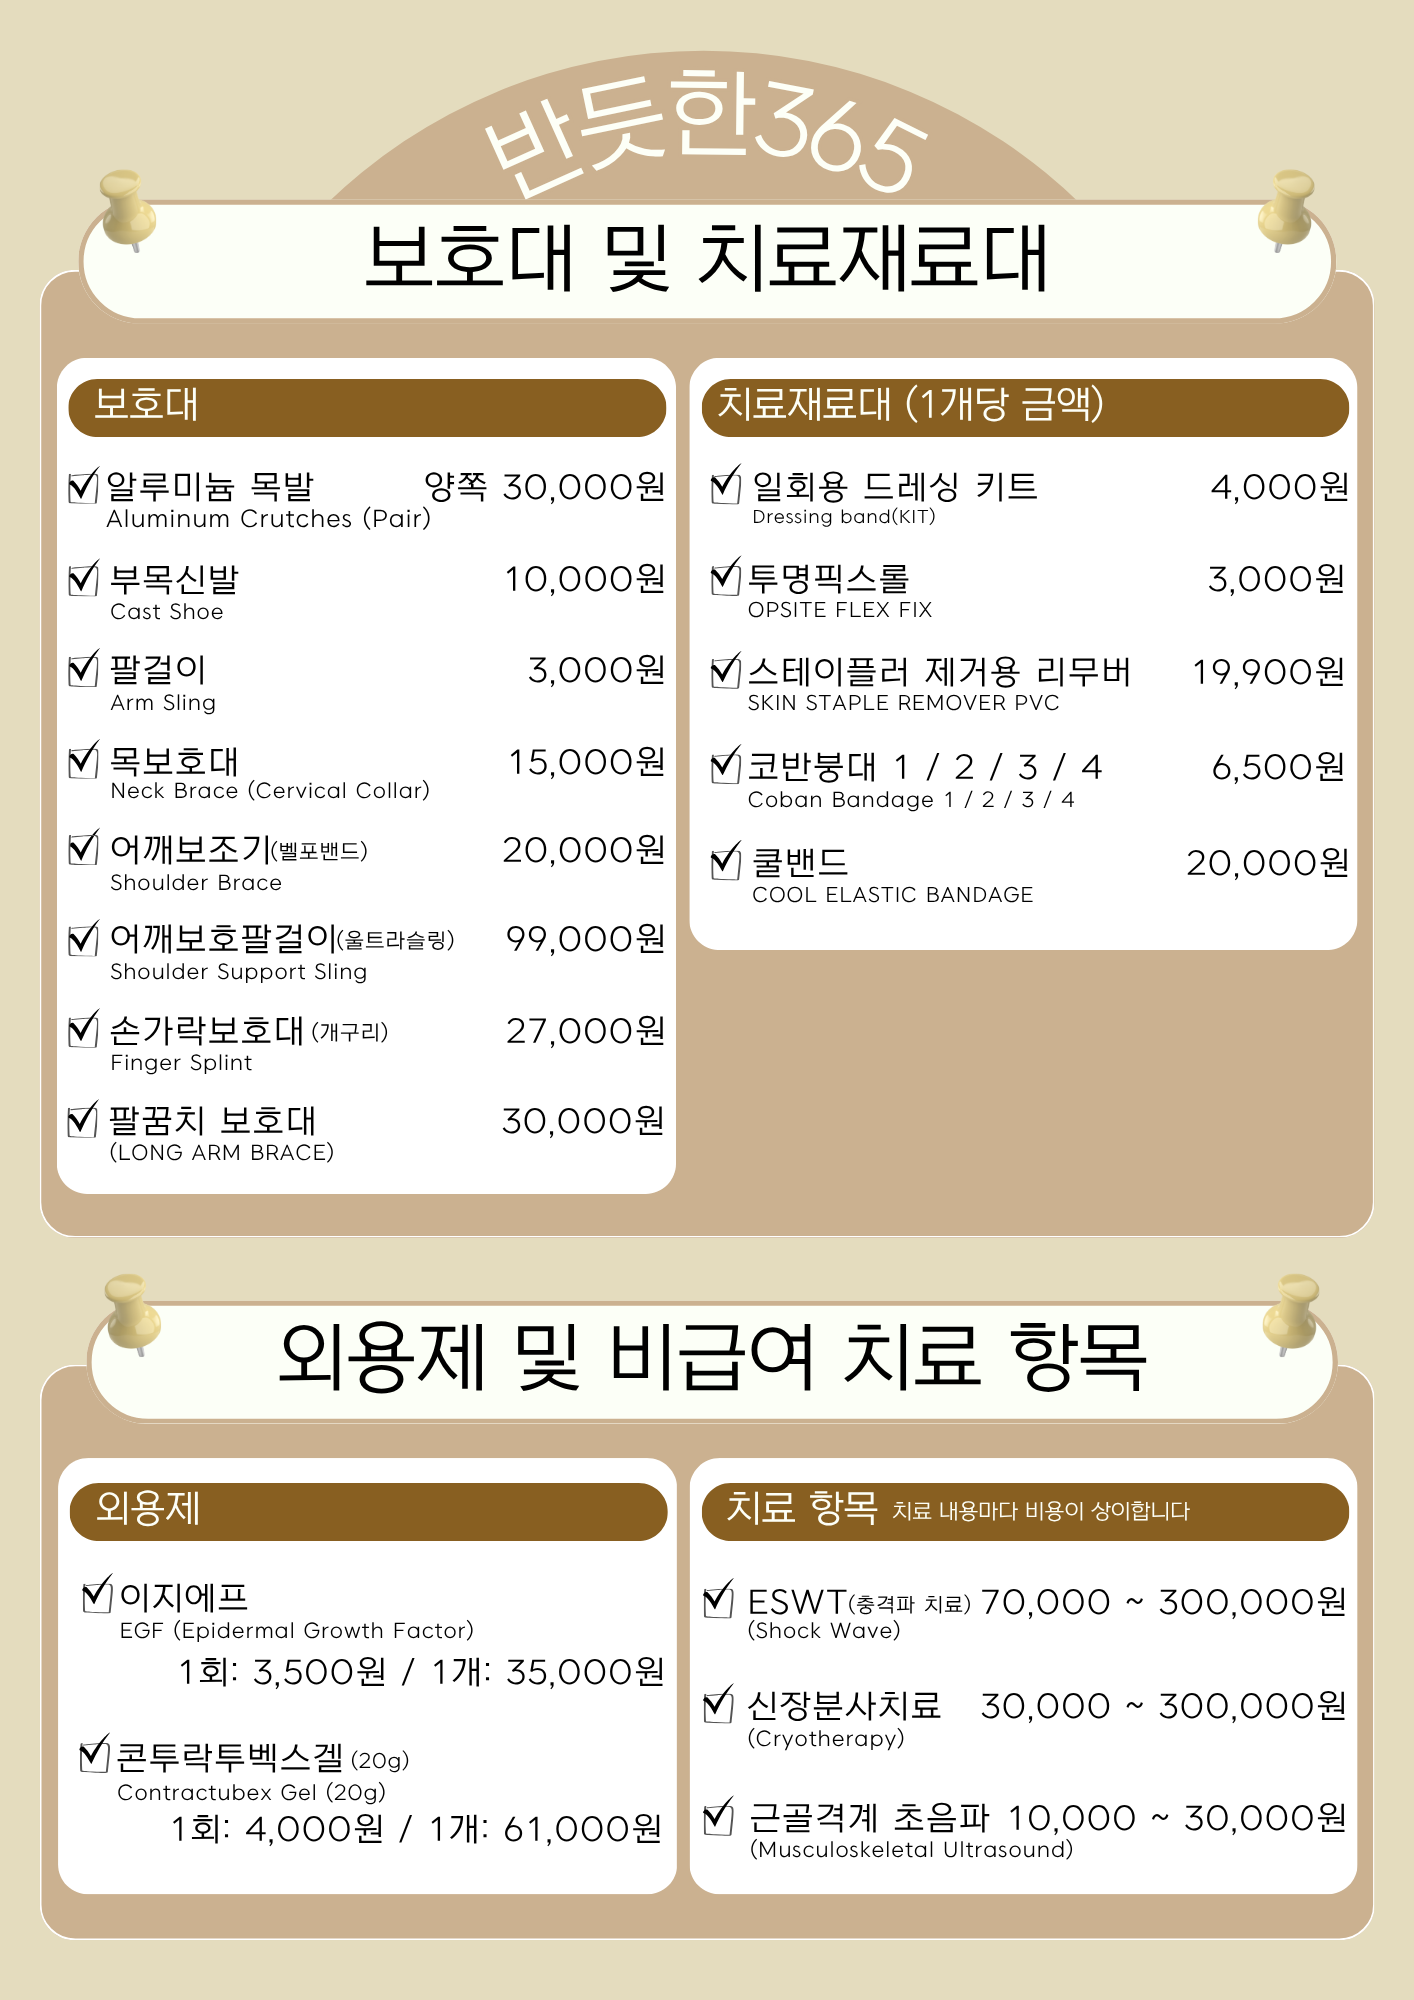
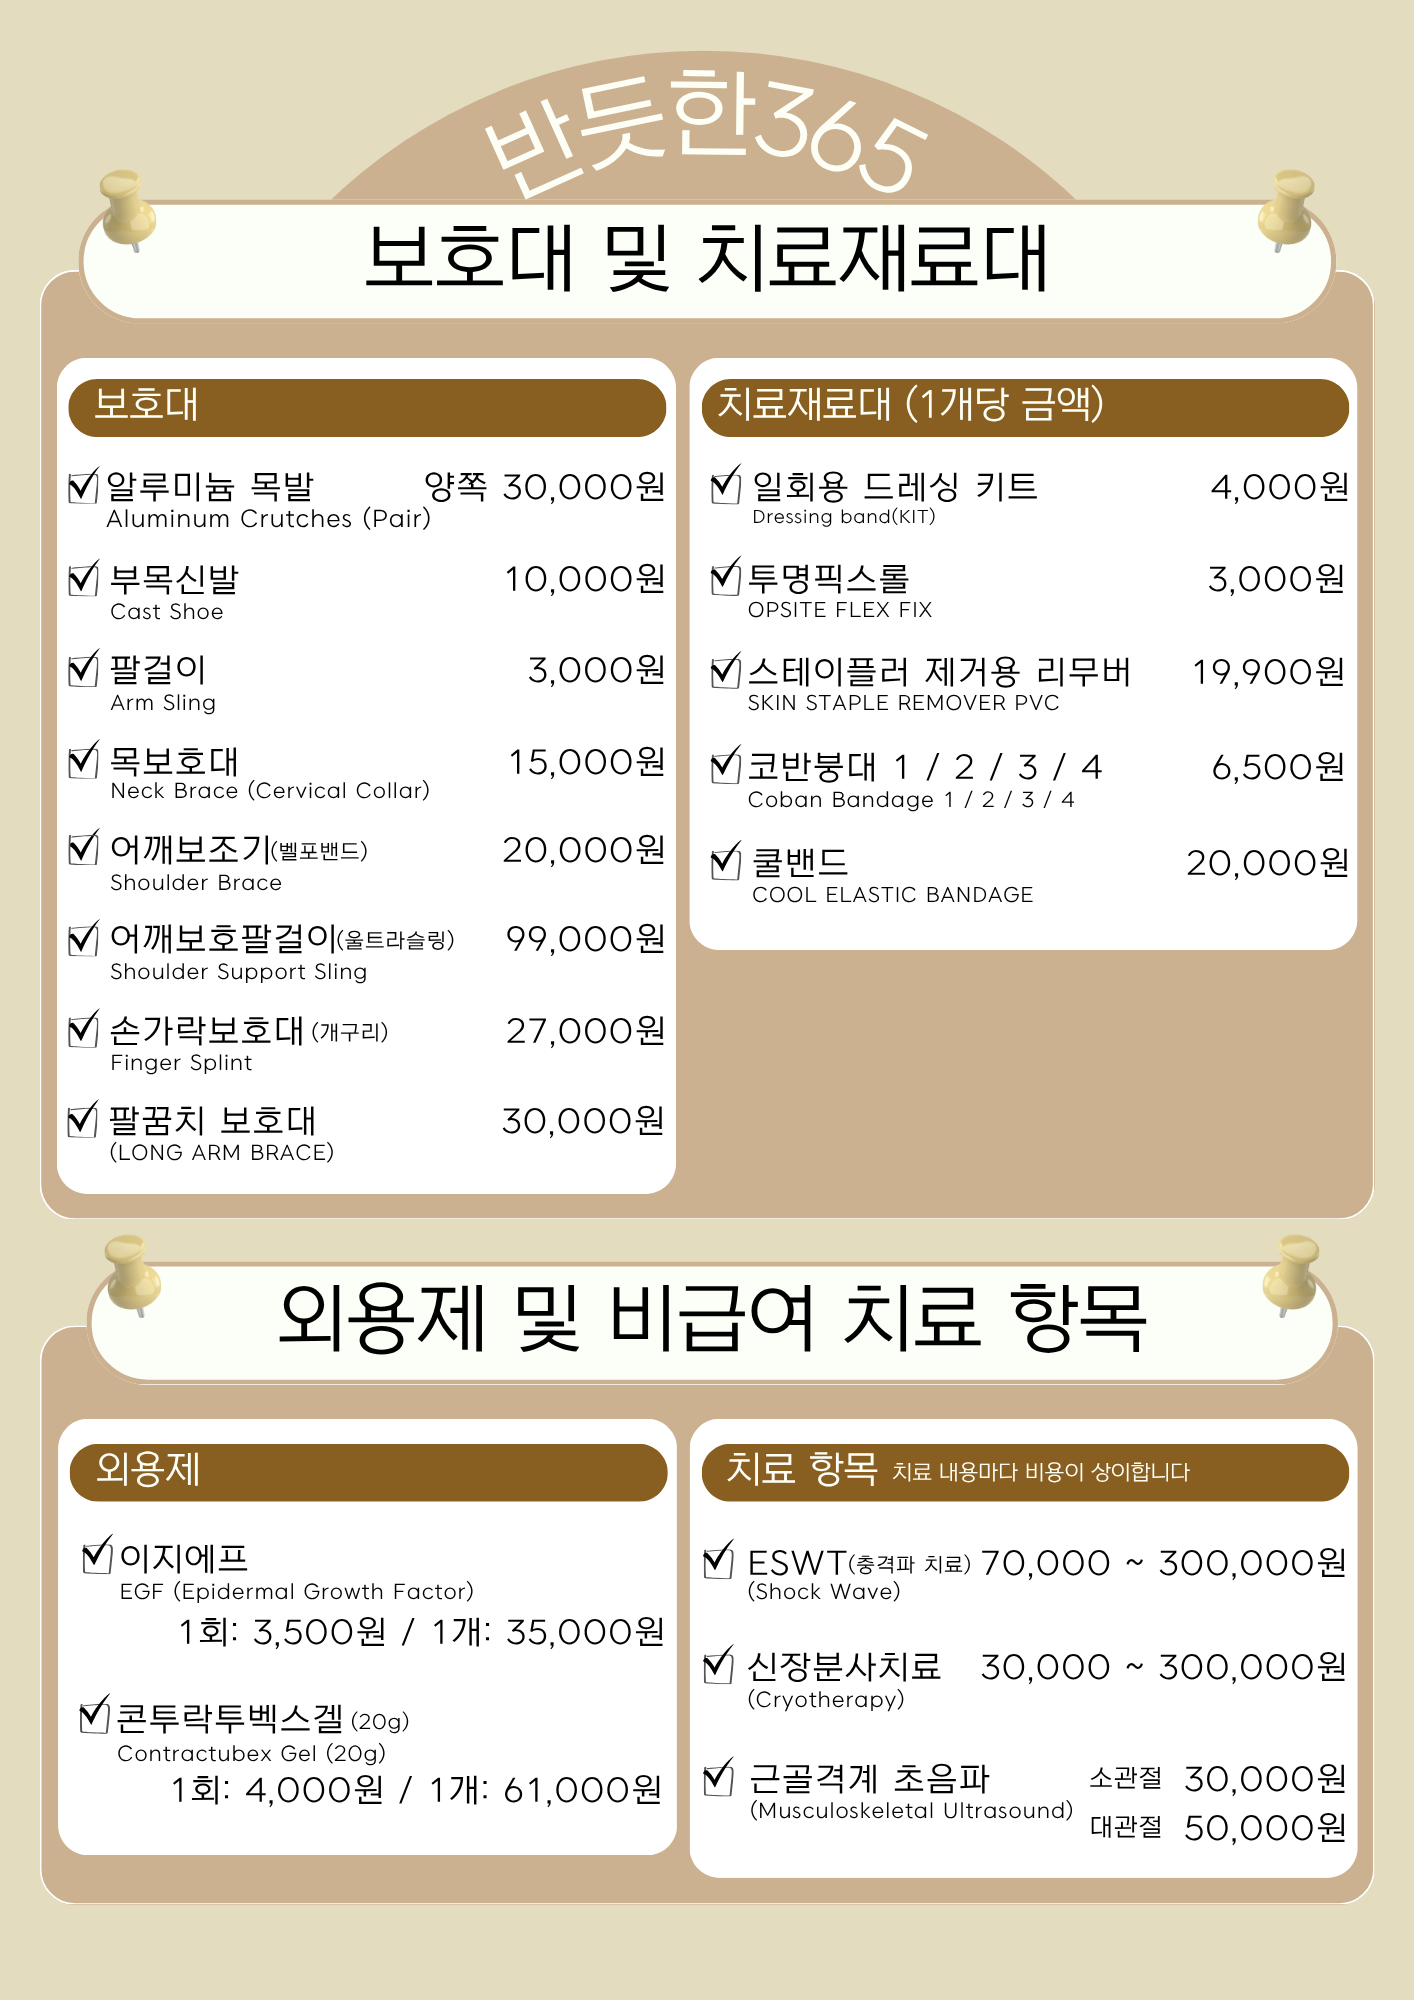
fix: 까치산점 비급여항목안내 (1) 초음파 가격 세분화 (한/영)
근골격계 초음파를 관절 크기별로 나눴다.
  10,000 ~ 30,000원  ->  소관절 30,000원 / 대관절 50,000원
  10,000 ~ 30,000 KRW -> Small joint 30,000 / Large joint 50,000 KRW

같은 장의 나머지 항목과 다른 두 장은 그대로다. 한/영 금액 대조 완료.

BANNER_VER 20260828 -> 20260828b. 같은 파일명을 덮어썼으므로 올리지 않으면
이미 방문한 환자 단말에 옛 가격표가 캐시로 남는다.

Changed region(s): [[0.0311, 0.589, 0.9958, 0.992]]

diff --git a/js/i18n.js b/js/i18n.js
@@ -5,7 +5,7 @@
    ───────────────────────────────────────────── */
 
 /* 배너 캐시 버전: 배너 이미지를 같은 파일명으로 교체할 때마다 이 값을 올린다. */
-const BANNER_VER = '20260828';
+const BANNER_VER = '20260828b';
 
 const translationMap = {
   ko: {
